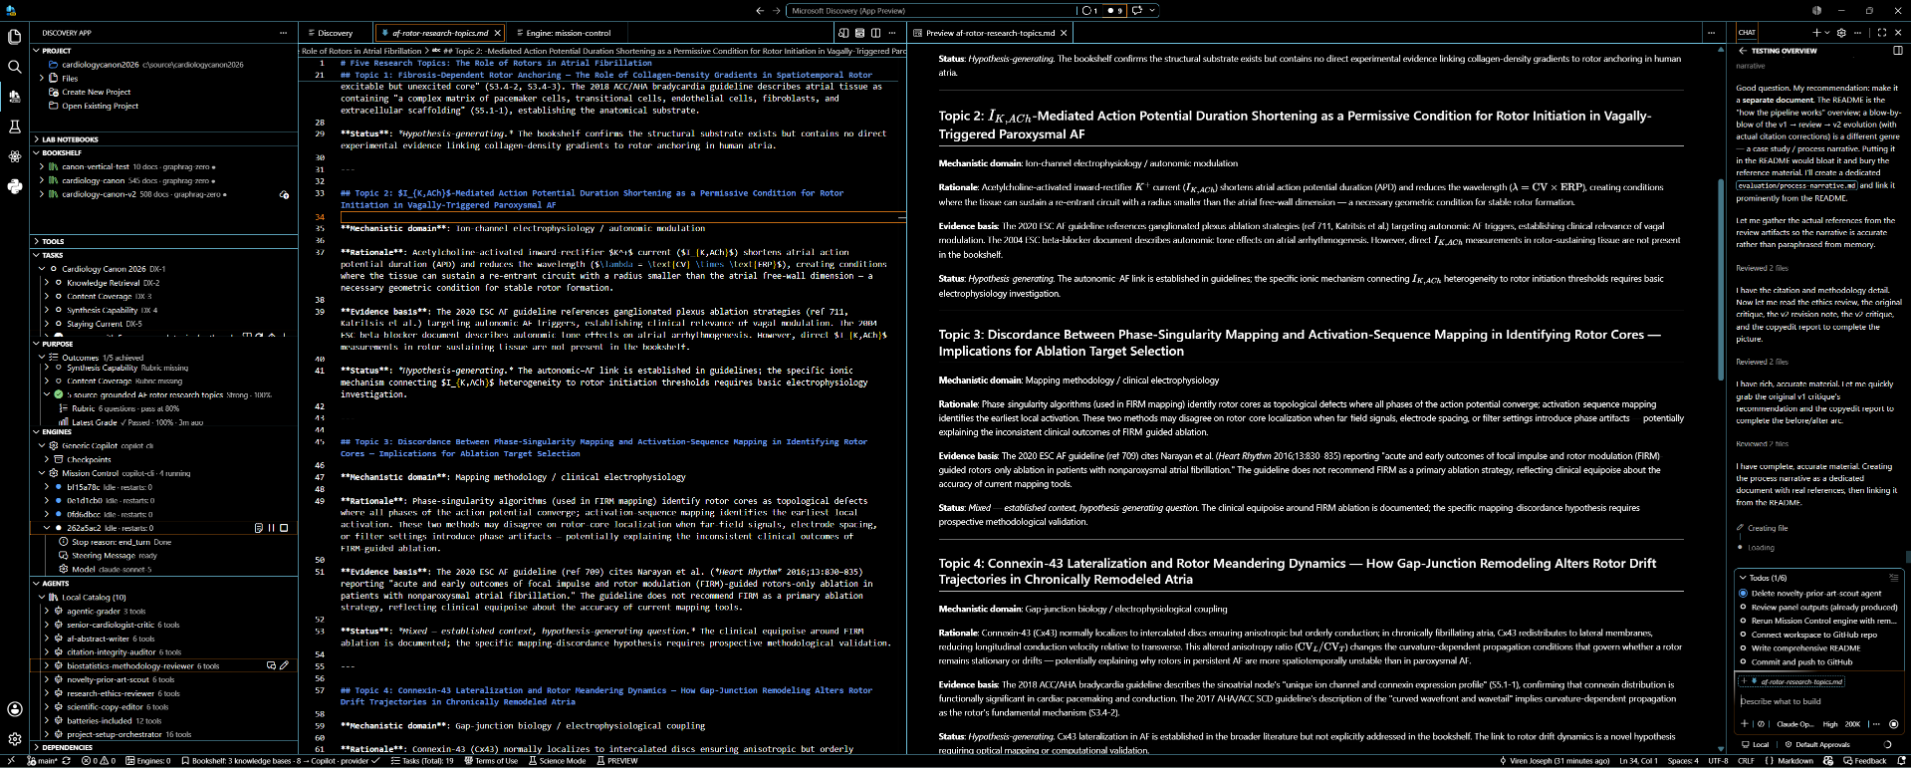
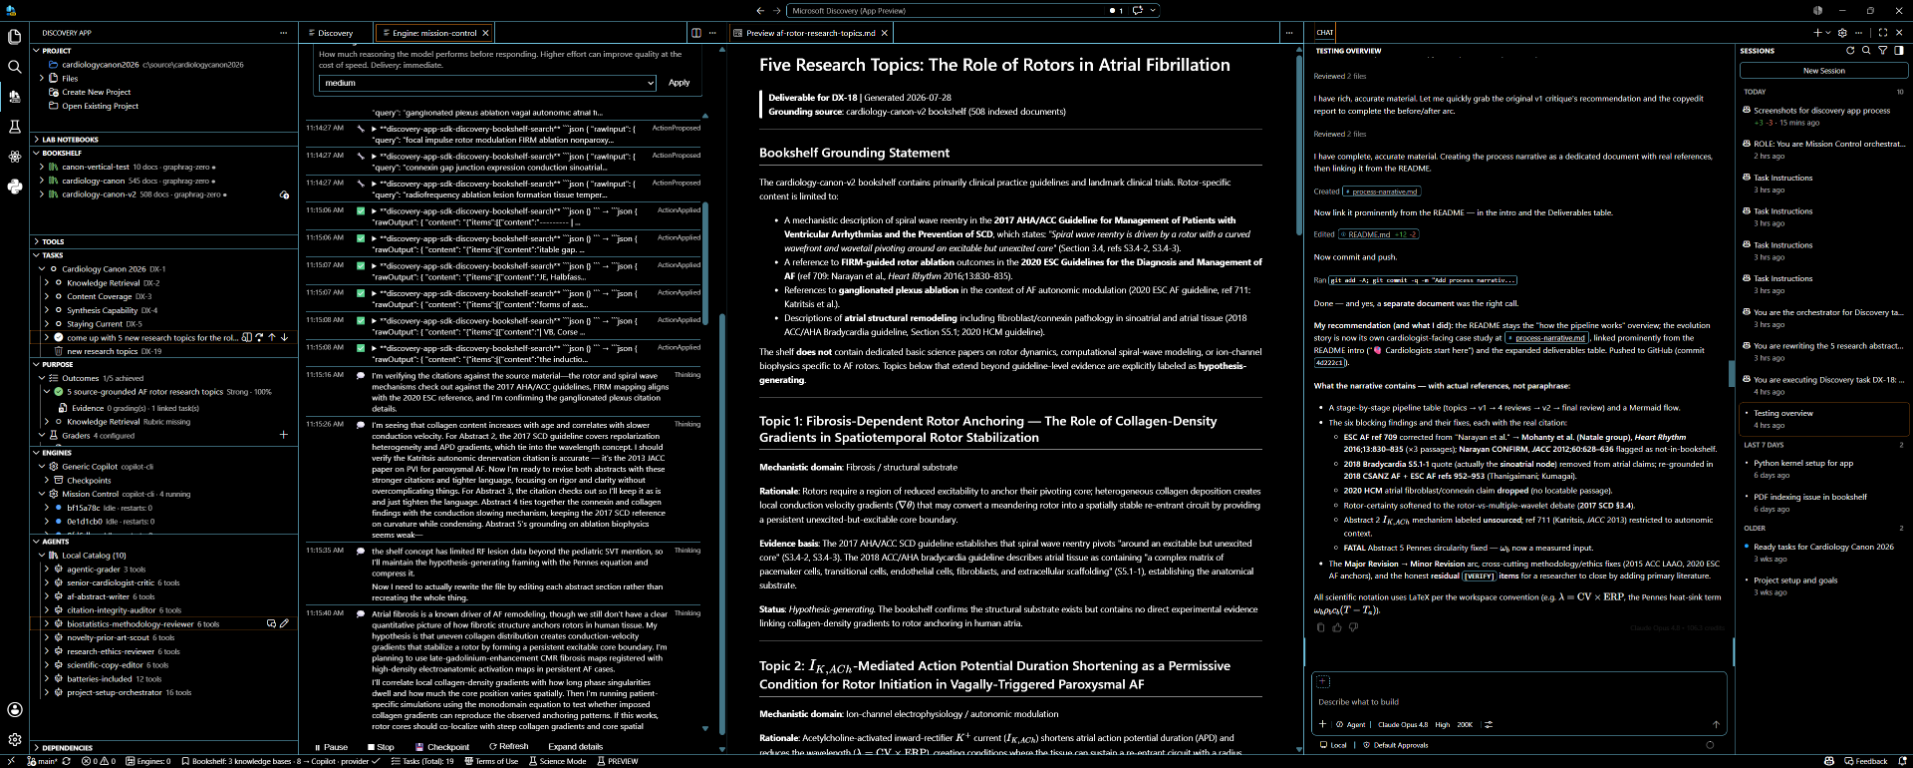
Swap in richer full-workspace hero image for walkthrough

diff --git a/evaluation/app-walkthrough.md b/evaluation/app-walkthrough.md
@@ -32,10 +32,14 @@ The Discovery workspace has three regions:
 - **Left sidebar** — the control surface, organised into stacked panels: **Project**,
   **Bookshelf**, **Tasks**, **Purpose**, **Engines**, and **Agents** (each covered
   below).
-- **Center editor** — the notebook / deliverable being produced (here, the
-  `af-rotor-research-topics.md` draft) with a live Markdown preview beside it.
+- **Center** — a **live action log** streaming each agent step (Thinking /
+  ActionProposed / ActionApplied) beside the **rendered deliverable** it is producing
+  (here, _"Five Research Topics…"_).
 - **Right Chat panel** — the chat-driven experience that orchestrates the agents and
-  streams their output.
+  streams their output, with a **Sessions** history of every run.
+
+Everything happens in this one workspace: retrieval, reasoning, review, and the
+finished document, side by side.
 
 ---
 
